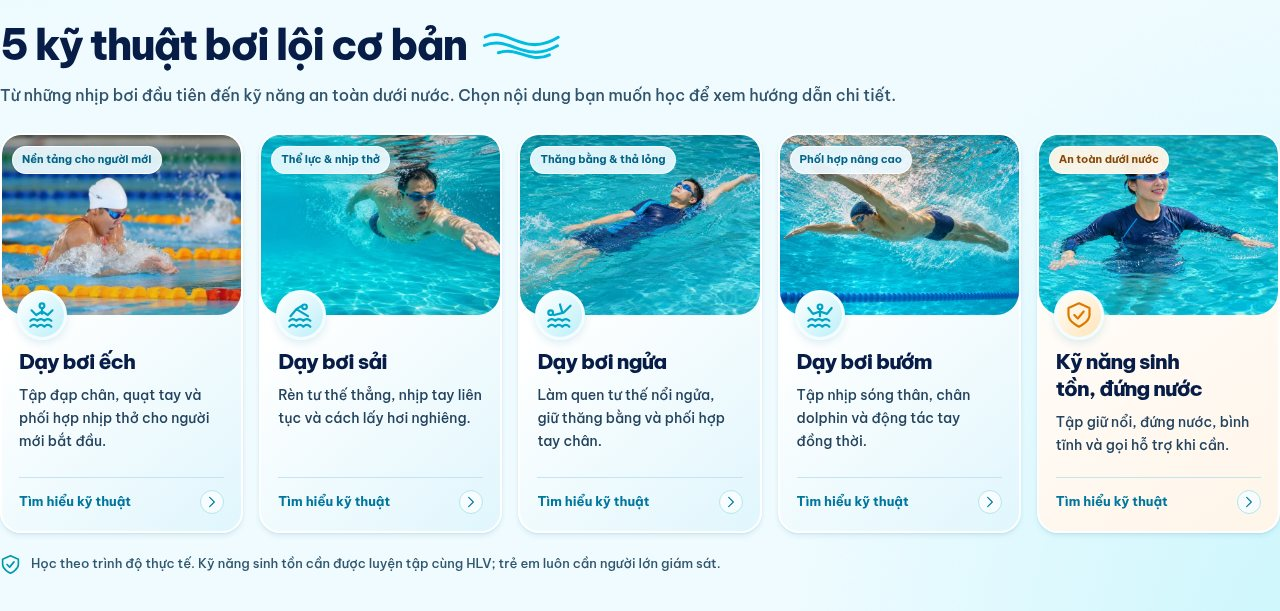
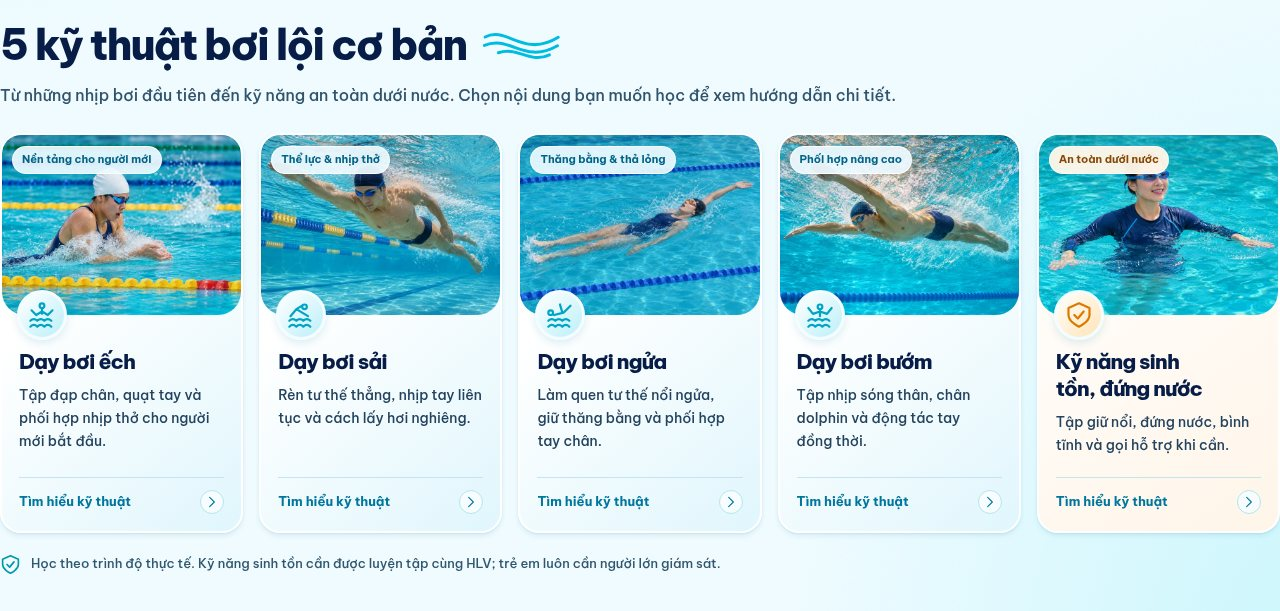
fix(lai-thieu): redraw swimming techniques from user references and deploy

Changed region(s): [[0.0, 0.2177, 0.5938, 0.5286]]

diff --git a/dayboi-web/src/data/localLandingPages.ts b/dayboi-web/src/data/localLandingPages.ts
@@ -49,24 +49,24 @@ export const laiThieuLanding: LocalLandingData = {
       title: 'Dạy bơi ếch',
       description: 'Tập đạp chân, quạt tay và phối hợp nhịp thở cho người mới bắt đầu.',
       focus: 'Nền tảng cho người mới',
-      image: `${asset}/technique-breaststroke-reference.webp`,
-      imageAlt: 'Vận động viên bơi ếch nhìn nghiêng trong pha lấy hơi, hai tay thu khép về phía trước',
+      image: `${asset}/technique-breaststroke-side-breathing.webp`,
+      imageAlt: 'Minh họa bơi ếch nhìn nghiêng trong pha lấy hơi, thân chồm về trước và hai tay thu khép sát mặt nước',
       href: '/ky-thuat-boi/hoc-boi-ech/', icon: 'breaststroke',
     },
     {
       title: 'Dạy bơi sải',
       description: 'Rèn tư thế thẳng, nhịp tay liên tục và cách lấy hơi nghiêng.',
       focus: 'Thể lực & nhịp thở',
-      image: `${asset}/technique-front-crawl.webp`,
-      imageAlt: 'Ảnh minh họa động tác bơi sải với tay vươn về phía trước',
+      image: `${asset}/technique-front-crawl-underwater.webp`,
+      imageAlt: 'Minh họa bơi sải dưới nước, một tay vươn trước và tay còn lại quạt về hông, hai chân đập luân phiên',
       href: '/ky-thuat-boi/hoc-boi-sai/', icon: 'swim',
     },
     {
       title: 'Dạy bơi ngửa',
       description: 'Làm quen tư thế nổi ngửa, giữ thăng bằng và phối hợp tay chân.',
       focus: 'Thăng bằng & thả lỏng',
-      image: `${asset}/technique-backstroke.webp`,
-      imageAlt: 'Ảnh minh họa người bơi ngửa trên mặt nước',
+      image: `${asset}/technique-backstroke-surface-full-body.webp`,
+      imageAlt: 'Minh họa toàn thân bơi ngửa trên mặt nước, một tay vung qua đầu và hai chân đập luân phiên, không mang chân vịt',
       href: '/ky-thuat-boi/hoc-boi-ngua/', icon: 'backstroke',
     },
     {
